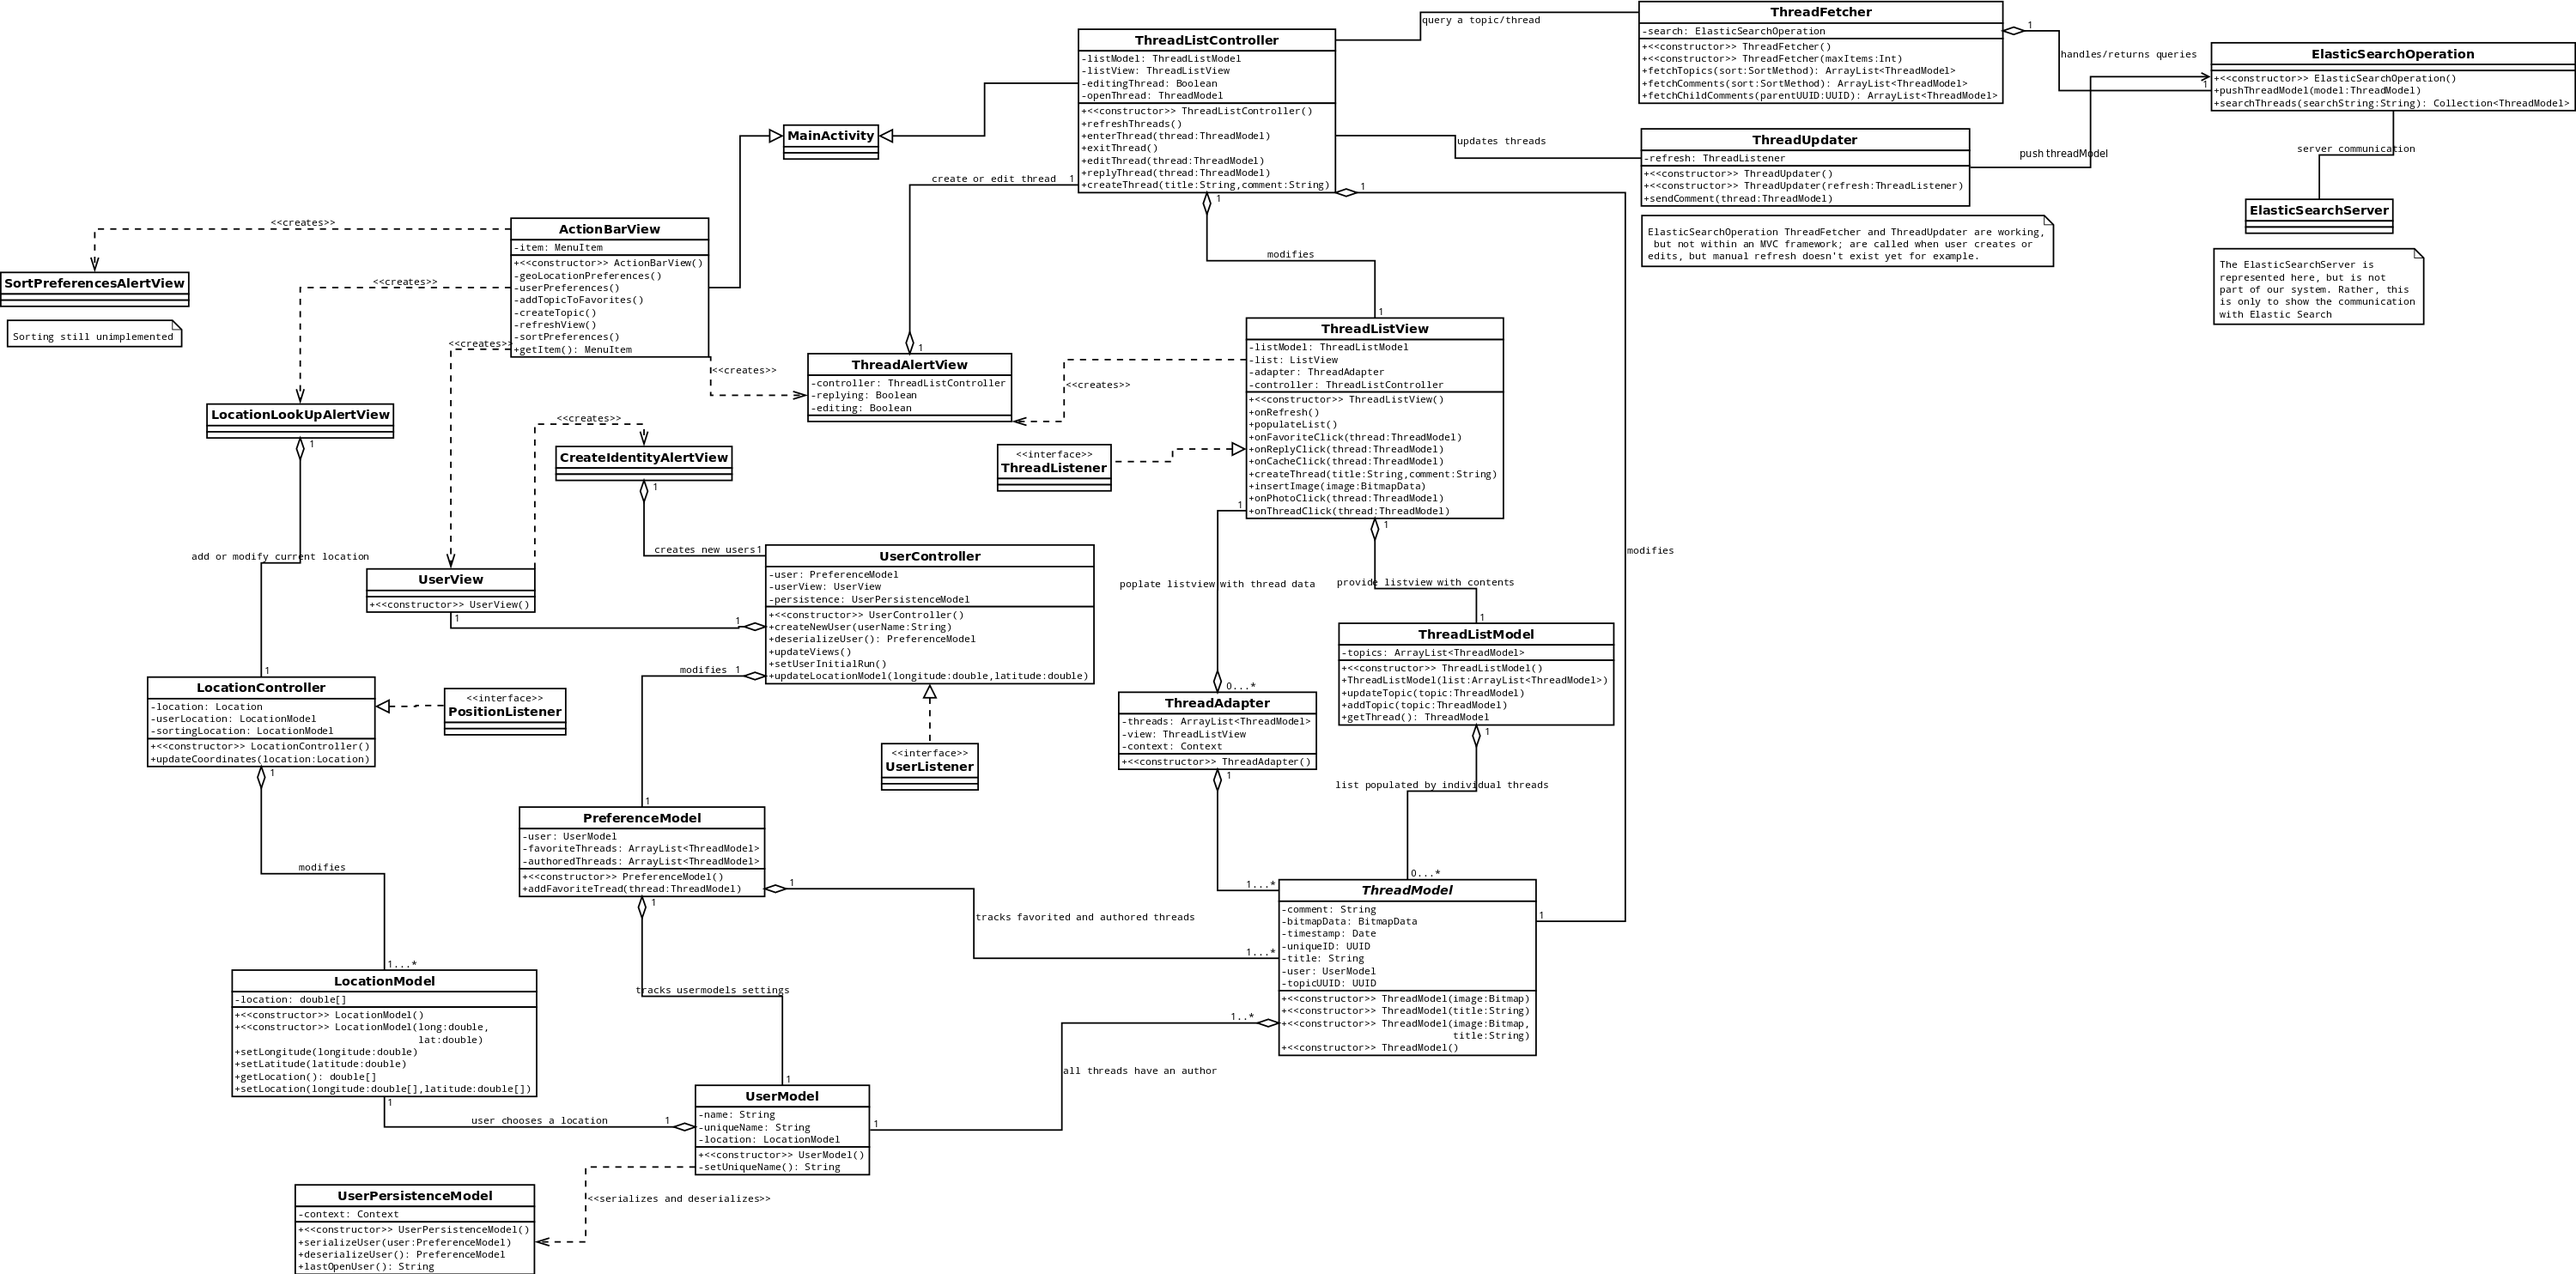
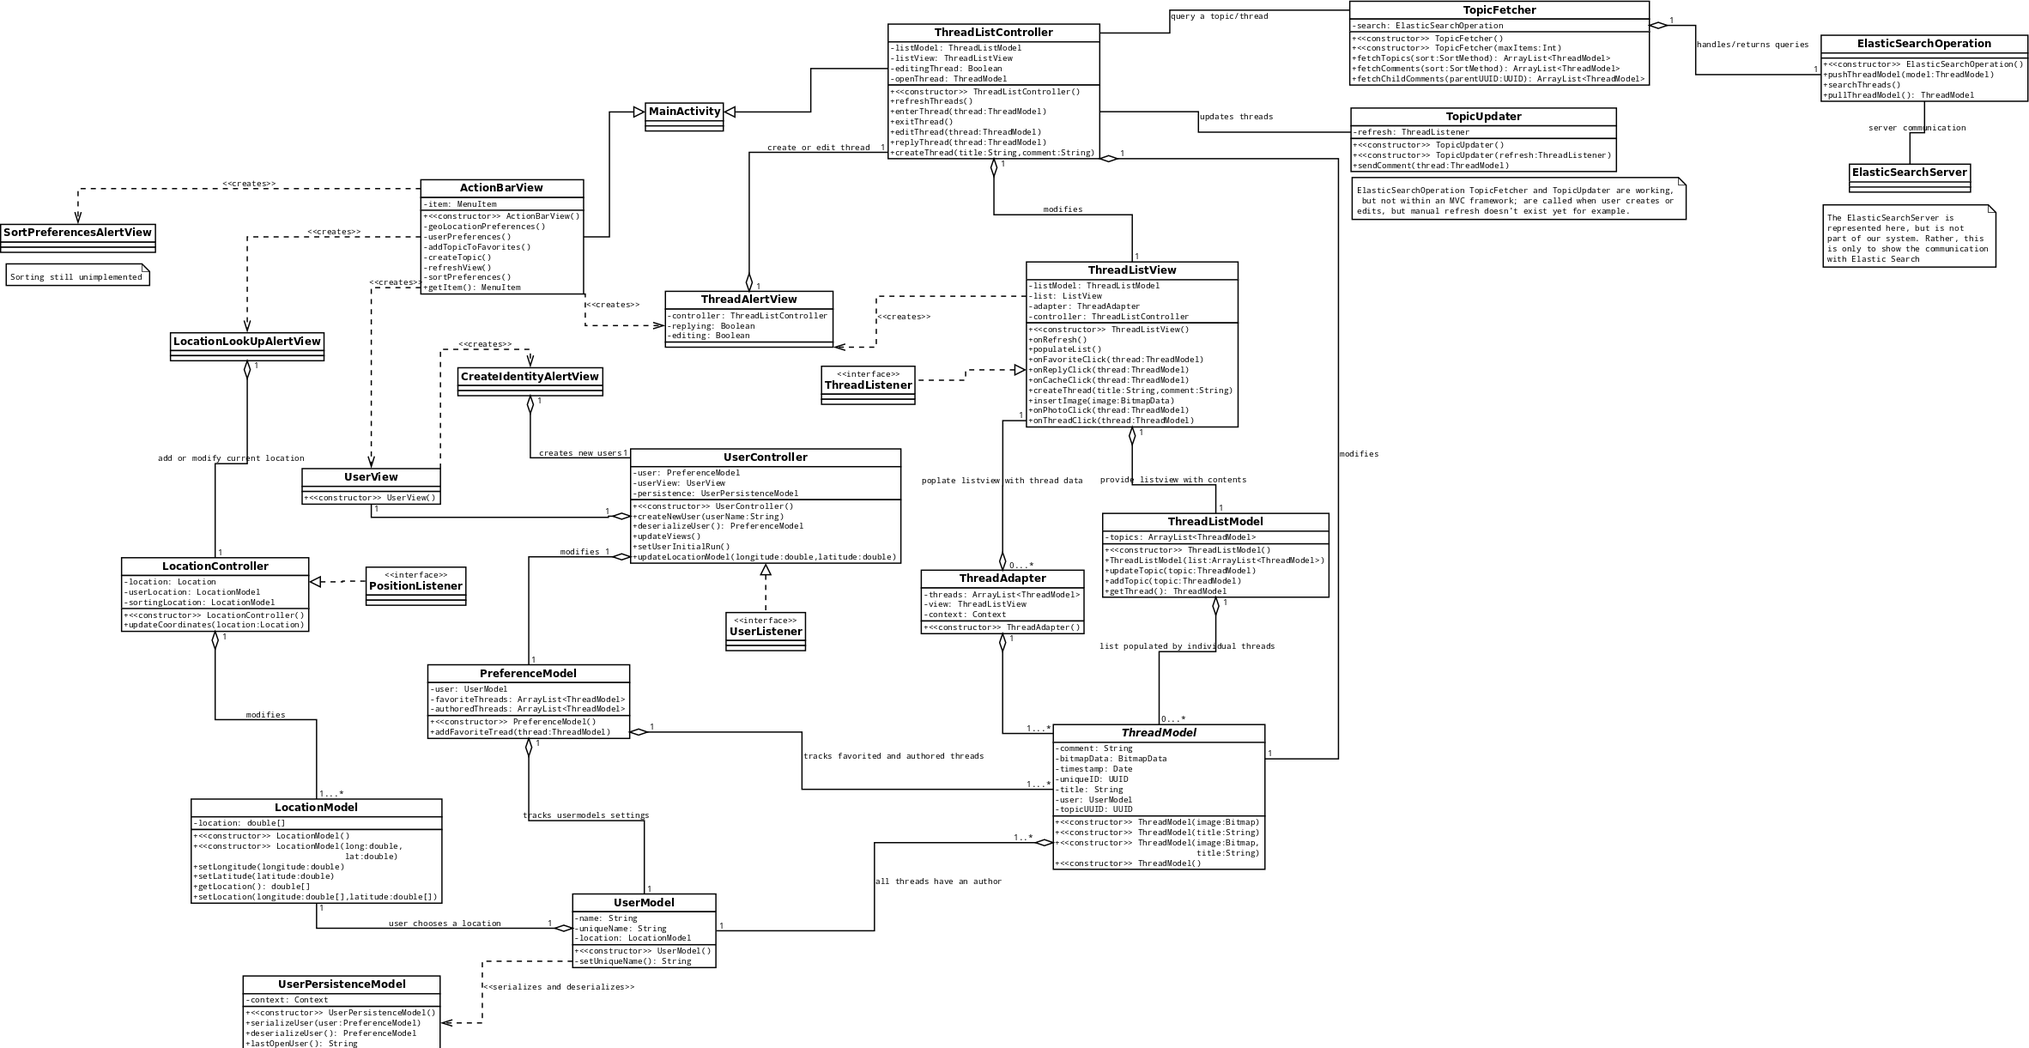
Revert c12c5ec..4beb2b7
This rolls back to commit c12c5ec368e816770b8820405063067242ecf305.

diff --git a/Team7Project/src/ca/ualberta/team7project/network/TopicFetcher.java b/Team7Project/src/ca/ualberta/team7project/network/TopicFetcher.java
@@ -1,0 +1,91 @@
+package ca.ualberta.team7project.network;
+
+import java.util.ArrayList;
+import java.util.UUID;
+
+import ca.ualberta.team7project.models.ThreadModel;
+
+/**
+ * Fetches comments from the server
+ * <p>
+ * Prepares search strings for ElasticSearchOperation
+ *
+ */
+public class TopicFetcher
+{
+	private ElasticSearchOperation search;
+	private String listSize;
+	
+	/**
+	 * Construct and set max size to the default (15)
+	 */
+	public TopicFetcher()
+	{
+		super();
+		listSize = "size=15";
+		search = new ElasticSearchOperation();
+	}
+	
+	/**
+	 * Construct with a custom max size
+	 * @param maxItems the max number of comments to pull from the server
+	 */
+	public TopicFetcher(int maxItems)
+	{
+		super();
+		listSize = "size=" + Integer.toString(maxItems);
+		search = new ElasticSearchOperation();
+	}
+	
+	/**
+	 * Enumeration of methods used to get the "best/most relevant" topics
+	 */
+	public static enum SortMethod
+	{
+		NO_SORT, DATE, LOCATION, DATE_LOCATION
+	}
+	
+	/**
+	 * Fetch comments globally (so not by parent) by location/date
+	 * @param sort sorting method
+	 * @return list of comments/topics
+	 */
+	public ArrayList<ThreadModel> fetchComments(SortMethod sort)
+	{
+		String sortString = null;
+		switch(sort)
+		{
+			case DATE:
+				sortString = "_search?sort=threadTimestamp:desc" + "&" + listSize;
+				break;
+			case NO_SORT:
+			default:
+				sortString = "_search" + "?" + listSize;
+		}
+		return new ArrayList<ThreadModel>(search.searchThreads(sortString));
+	}
+	
+	/**
+	 * Fetch comments by parent (and location/date)
+	 * <p>
+	 * Can be used to fetch only topics (pass parentID = ThreadModel.ROOT)
+	 * @param parentID UUID of parent comment
+	 * @param sort sorting method
+	 * @return list of comments (or topics if parentID = null)
+	 */
+	public ArrayList<ThreadModel> fetchChildComments(UUID parentID, SortMethod sort)
+	{
+		String sortString = null;
+		switch(sort)
+		{
+			case DATE:
+				sortString = "_search?q=parentUUID:" + parentID.toString() + "&" +
+						"sort=threadTimestamp:desc" + "&" + listSize;
+				break;
+			case NO_SORT:
+			default:
+				sortString = "_search?q=parentUUID:" + parentID.toString() + "&" + listSize;
+		}
+		return new ArrayList<ThreadModel>(search.searchThreads(sortString));
+	}
+}

diff --git a/Team7Project/src/ca/ualberta/team7project/network/TopicUpdater.java b/Team7Project/src/ca/ualberta/team7project/network/TopicUpdater.java
@@ -1,0 +1,87 @@
+package ca.ualberta.team7project.network;
+
+import ca.ualberta.team7project.interfaces.ThreadListener;
+import ca.ualberta.team7project.models.ThreadModel;
+
+/**
+ * Updates the comments on the server
+ * <p>
+ * Passes comments on to ElasticSearchOperation
+ */
+public class TopicUpdater
+{
+	ThreadListener refresh;
+	
+	/**
+	 * Construct a TopicUpdater with no refresh callback
+	 */
+	public TopicUpdater()
+	{
+		super();
+		this.refresh = null;
+	}
+	
+	/**
+	 * Construct a TopicUpdater with an onRefresh() callback
+	 * @param refresh an object implementing ThreadListener
+	 */
+	public TopicUpdater(ThreadListener refresh)
+	{
+		super();
+		this.refresh = refresh;
+	}
+
+	/**
+	 * Pushes a single comment to the server
+	 * <p>
+	 * If editing, the old comment will be overwritten automatically
+	 * <p>
+	 * If a refresh callback was provided, it will be called after
+	 * receiving a response from the server
+	 * @param comment a comment/topic to be pushed
+	 */
+	public void sendComment(ThreadModel comment)
+	{
+		ElasticSearchOperation search = new ElasticSearchOperation();
+		search.pushThreadModel(comment, refresh);
+	}
+	
+	/*
+	//from server
+	private ThreadModel getCurrentTopic(UUID uniqueId)
+	{
+		return null;
+	}
+	
+	//in memory
+	private void updateOldTopic(ThreadModel oldTopic, ThreadModel newComment, UUID parent)
+	{
+		//add new comment to existing topic
+		//the topic should be one that is temporarily being held in memory just for reply adding
+	}
+	
+	//to server
+	private void sendUpdatedTopic(ThreadModel topic)
+	{
+		persist.PushTopic(topic);
+	}
+	
+	public void addTopic(ThreadModel thread)
+	{
+		//send new topic
+		sendUpdatedTopic(thread);
+	}
+	
+	public void addReply(ThreadModel newComment, UUID parent)
+	{
+		//update existing topic
+		
+		//if this function is called, then topmost should not be null
+		ThreadModel oldTopic = getCurrentTopic(topmost);
+		
+		updateOldTopic(oldTopic, newComment, parent);
+		
+		sendUpdatedTopic(oldTopic);
+	}
+	*/
+}

diff --git a/Team7Project/src/ca/ualberta/team7project/controllers/ThreadListController.java b/Team7Project/src/ca/ualberta/team7project/controllers/ThreadListController.java
@@ -9,8 +9,8 @@ import ca.ualberta.team7project.alertviews.ThreadAlertView;
 import ca.ualberta.team7project.models.ThreadListModel;
 import ca.ualberta.team7project.models.ThreadModel;
 import ca.ualberta.team7project.models.UserModel;
-import ca.ualberta.team7project.network.ThreadFetcher;
-import ca.ualberta.team7project.network.ThreadUpdater;
+import ca.ualberta.team7project.network.TopicFetcher;
+import ca.ualberta.team7project.network.TopicUpdater;
 import ca.ualberta.team7project.views.ThreadListView;
 
 /**
@@ -88,11 +88,11 @@ public class ThreadListController extends Activity
 			public void run()
 			{
 		
-				ThreadFetcher fetcher = new ThreadFetcher();
+				TopicFetcher fetcher = new TopicFetcher();
 				
 				UUID parent = stack.get(stack.size()-1);
 				
-				ArrayList<ThreadModel> threads = fetcher.fetchChildComments(parent, ThreadFetcher.SortMethod.DATE);
+				ArrayList<ThreadModel> threads = fetcher.fetchChildComments(parent, TopicFetcher.SortMethod.DATE);
 				
 				listModel = new ThreadListModel();
 				listModel.setTopics(threads);
@@ -170,7 +170,7 @@ public class ThreadListController extends Activity
 		UserModel currentUser = MainActivity.getUserController().getUser().getUser();
 		ThreadModel newThread = new ThreadModel(comment, currentUser, title);
 		
-		ThreadUpdater updater = new ThreadUpdater(listView);
+		TopicUpdater updater = new TopicUpdater(listView);
 		
 		/* Determine if the user was editing, replying or creating a new thread */
 		if(getEditingTopic() == true)

diff --git a/Team7ProjectTest/src/ca/ualberta/team7project/tests/UserModelTest.java b/Team7ProjectTest/src/ca/ualberta/team7project/tests/UserModelTest.java
@@ -36,7 +36,6 @@ public class UserModelTest extends
 		assertFalse("uniqueName for two users with the same name is unique",
 				userOne.getUniqueName().equals(userTwo.getUniqueName()));
 	}
-	
 
 	/**
 	 * Ensure that basic properties of UserModel are set
@@ -49,13 +48,6 @@ public class UserModelTest extends
 		assertEquals("User's name is properly set", "Jerry Maguire", user.getName());
 		assertNotNull("User has a unique name", user.getUniqueName());
 		assertEquals("User has a null location", user.getLocation(), (LocationModel) null);
-	}
-	
-	public void testGetName()
-	{
-		UserModel userOne = new UserModel("Ash Ketchum");
-		
-		assertEquals("This should return Ash Ketchum", userOne.getName(), "Ash Ketchum");
 	}
 	
 	public void testSetName()

diff --git a/Team7ProjectTest/src/ca/ualberta/team7project/tests/UserPersistenceModelTests.java b/Team7ProjectTest/src/ca/ualberta/team7project/tests/UserPersistenceModelTests.java
@@ -29,12 +29,6 @@ public class UserPersistenceModelTests extends
 	public void testSerializeUser()
 	{
 		/* Not sure how we are going to test this right now */
-		PreferenceModel user = new PreferenceModel("Bruce Wayne");
-		UserPersistenceModel persistence = new UserPersistenceModel(activity.getApplicationContext());
-		
-		persistence.serializeUser(user);
-		
-		assertEquals("The user serialize should be Bruce Wayne",persistence.deserializeUser().getUser().getName(),"Bruce Wayne");
 	}
 	
 	public void testDeserializeUser()

diff --git a/Team7ProjectTest/src/ca/ualberta/team7project/tests/ThreadModelTests.java b/Team7ProjectTest/src/ca/ualberta/team7project/tests/ThreadModelTests.java
@@ -35,15 +35,6 @@ public class ThreadModelTests extends
 		assertEquals("Image should be null", null, thread.getImage());
 	}
 	
-	public void testImageNoTitle()
-	{
-		UserModel user = new UserModel("Ash Ketchum");
-		ThreadModel thread = new ThreadModel("Caught Snorelax", user, null);
-//		thread.setImage(image);	//Find an image to insert as test
-		
-		assertNotNull("The image should not be null", thread.getImage());
-	}
-	
 	public void testWithTitle()
 	{
 		UserModel user = new UserModel("Ash Ketchum");

diff --git a/Team7ProjectTest/src/ca/ualberta/team7project/tests/ThreadListControllerTest.java b/Team7ProjectTest/src/ca/ualberta/team7project/tests/ThreadListControllerTest.java
@@ -1,0 +1,16 @@
+package ca.ualberta.team7project.tests;
+
+import ca.ualberta.team7project.MainActivity;
+import android.test.ActivityInstrumentationTestCase2;
+
+
+public class ThreadListControllerTest extends ActivityInstrumentationTestCase2<MainActivity>
+{
+
+	public ThreadListControllerTest()
+	{
+		super(MainActivity.class);
+	}
+	
+
+}
